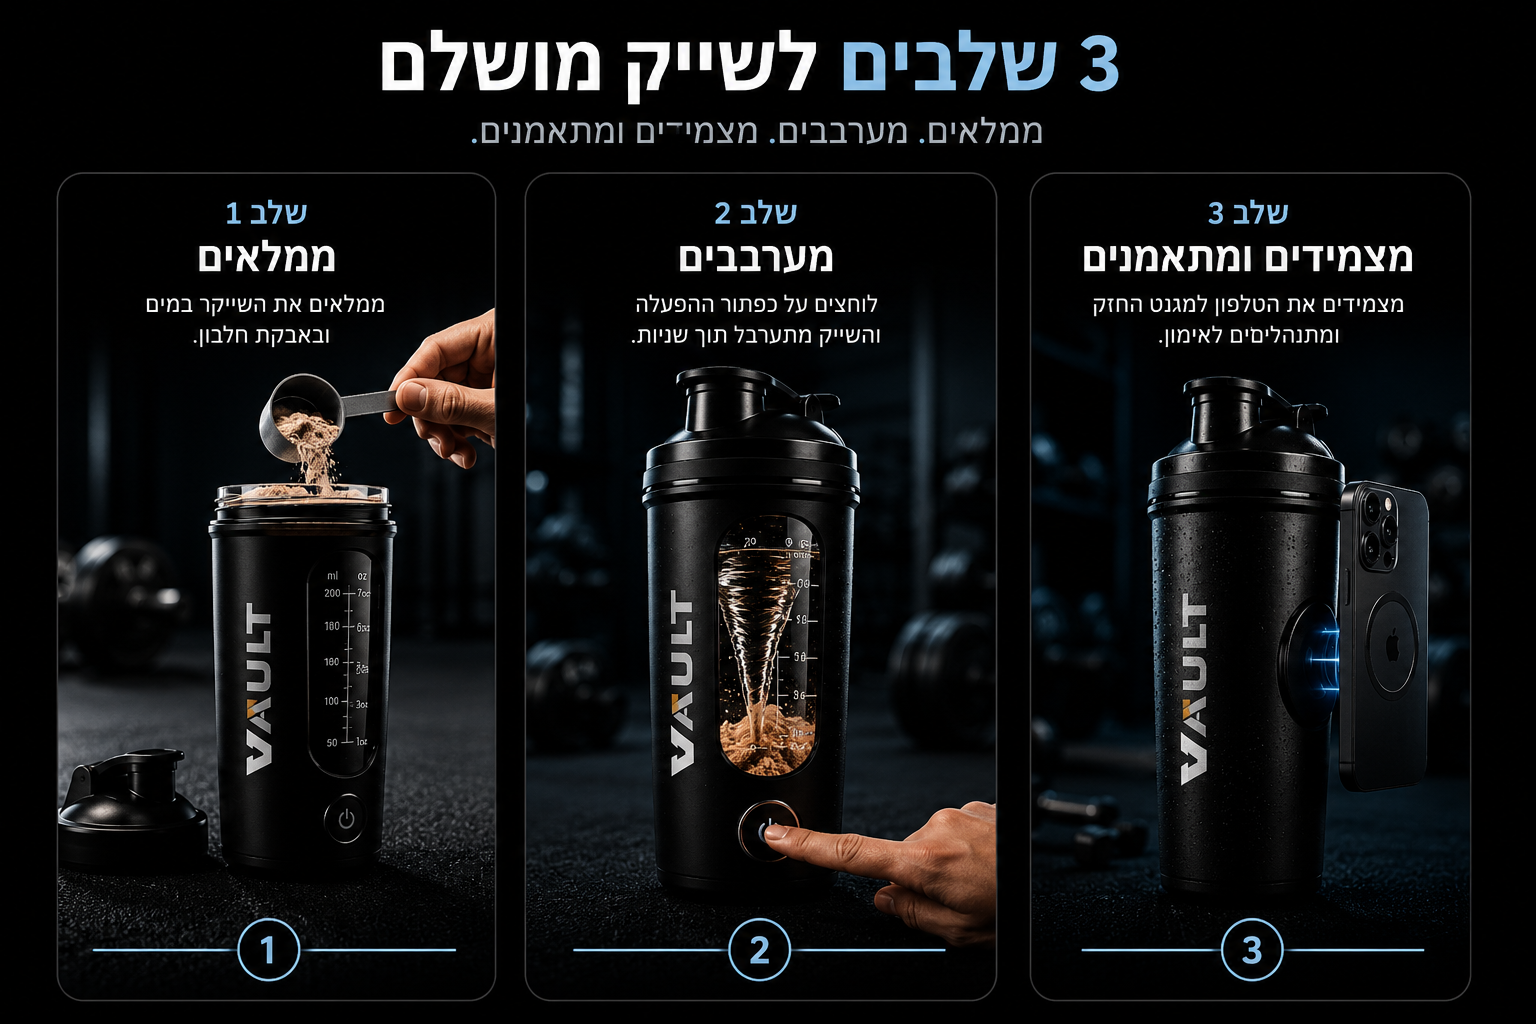
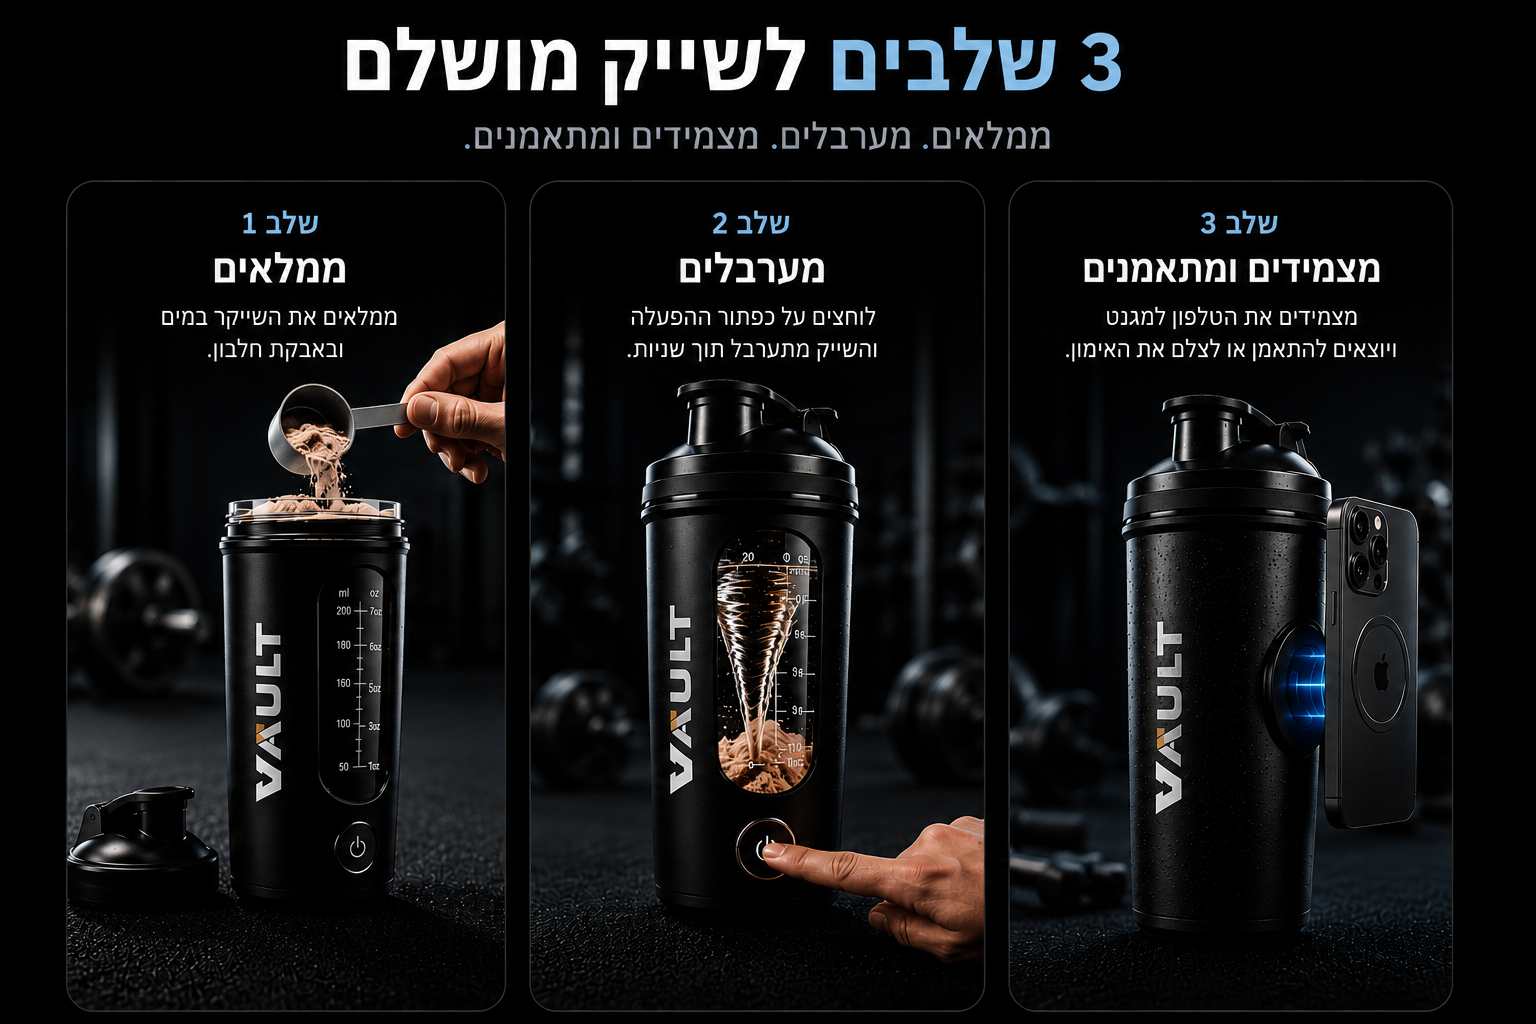
Update corrected image

Changed region(s): [[0.0312, 0.0312, 0.9688, 1.0], [0.9375, 0.4062, 0.9688, 0.4375]]

diff --git a/src/app/page.tsx b/src/app/page.tsx
@@ -134,20 +134,24 @@ function HowItWorks() {
           ))}
         </div>
 
-        {/* Action clip — electric motor spinning the shake (placeholder video) */}
+        {/* Action shot — the integrated electric motor in action */}
         <FadeIn delay={120}>
           <figure className="mx-auto mt-16 w-full max-w-3xl">
-            <div className="group relative aspect-video overflow-hidden rounded-2xl border border-white/10 bg-zinc-900 shadow-[0_20px_60px_-24px_rgba(167, 199, 231,0.45)]">
-              <AutoplayVideo
-                src="/videos/vault-magnetic-demo.mp4"
-                className="absolute inset-0 h-full w-full object-cover object-center"
+            <div className="group relative overflow-hidden rounded-2xl border border-white/10 bg-zinc-900 shadow-[0_20px_60px_-24px_rgba(167, 199, 231,0.45)]">
+              <Image
+                src="/images/vault-steps.png"
+                alt="המנוע החשמלי המובנה של VAULT מערבל שייק חלק בלחיצת כפתור"
+                width={1536}
+                height={1024}
+                sizes="(max-width: 768px) 100vw, 768px"
+                className="h-auto w-full"
               />
               <span className="pointer-events-none absolute bottom-3 right-3 rounded-full bg-black/70 px-3 py-1 text-[10px] font-bold uppercase tracking-[0.15em] text-[#A7C7E7] backdrop-blur-sm">
                 המנוע החשמלי בפעולה
               </span>
             </div>
             <figcaption className="mt-3 text-center text-xs text-zinc-500">
-              סרטון הדגמה זמני — יוחלף בקליפ של המנוע החשמלי מערבל את השייק.
+              המנוע החשמלי המובנה — ערבוב חלק לגמרי בלחיצת כפתור אחת.
             </figcaption>
           </figure>
         </FadeIn>
